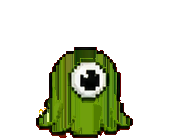
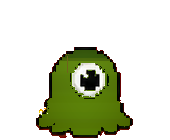
Remove slime sprite vertical banding

Changed region(s): [[0.2353, 0.3429, 0.7647, 0.9714], [0.5, 0.6286, 0.5588, 0.6571]]

diff --git a/g00dweird_chat-main/frontend/src/components/AnimSpriteAssets.test.js b/g00dweird_chat-main/frontend/src/components/AnimSpriteAssets.test.js
@@ -39,6 +39,7 @@ function decodePngAlpha(filePath) {
     const scanlineLength = width * bytesPerPixel;
     const inflated = zlib.inflateSync(Buffer.concat(idatChunks));
     const alpha = Array.from({ length: height }, () => new Uint8Array(width));
+    const rgba = Array.from({ length: height }, () => Array(width));
     let sourceOffset = 0;
     let previous = Buffer.alloc(scanlineLength);
 
@@ -61,12 +62,19 @@ function decodePngAlpha(filePath) {
         }
 
         for (let x = 0; x < width; x += 1) {
-            alpha[y][x] = row[x * bytesPerPixel + 3];
+            const pixelOffset = x * bytesPerPixel;
+            rgba[y][x] = [
+                row[pixelOffset],
+                row[pixelOffset + 1],
+                row[pixelOffset + 2],
+                row[pixelOffset + 3],
+            ];
+            alpha[y][x] = row[pixelOffset + 3];
         }
         previous = row;
     }
 
-    return { width, height, alpha };
+    return { width, height, alpha, rgba };
 }
 
 function enclosedTransparentPinholes({ width, height, alpha }, maxArea = 80) {
@@ -116,6 +124,59 @@ function animationStateName(frameName) {
     return frameName.replace(/_\d+\.png$/, "");
 }
 
+function opaqueBounds({ width, height, alpha }) {
+    let left = width;
+    let top = height;
+    let right = -1;
+    let bottom = -1;
+
+    for (let y = 0; y < height; y += 1) {
+        for (let x = 0; x < width; x += 1) {
+            if (alpha[y][x] === 0) continue;
+            left = Math.min(left, x);
+            top = Math.min(top, y);
+            right = Math.max(right, x);
+            bottom = Math.max(bottom, y);
+        }
+    }
+
+    return right >= left ? { left, top, right, bottom } : null;
+}
+
+function isSlimeBodyPixel([r, g, b, a]) {
+    if (a === 0) return false;
+    if (r > 190 && g > 190 && b > 185) return false;
+    return g > 40 && g >= r + 5 && g >= b + 8;
+}
+
+function brightness([r, g, b]) {
+    return (r + g + b) / 3;
+}
+
+function verticalSlimeBodyBands(decoded) {
+    const bounds = opaqueBounds(decoded);
+    if (!bounds) return [];
+    const bands = [];
+
+    for (let x = bounds.left + 8; x <= bounds.right - 8; x += 1) {
+        let darkContrastPixels = 0;
+
+        for (let y = bounds.top + 5; y <= bounds.bottom - 5; y += 1) {
+            const pixel = decoded.rgba[y][x];
+            const left = decoded.rgba[y][x - 1];
+            const right = decoded.rgba[y][x + 1];
+            if (!isSlimeBodyPixel(pixel) || !isSlimeBodyPixel(left) || !isSlimeBodyPixel(right)) continue;
+            if (brightness(pixel) + 28 < Math.min(brightness(left), brightness(right))) {
+                darkContrastPixels += 1;
+            }
+        }
+
+        if (darkContrastPixels >= 22) bands.push({ x, darkContrastPixels });
+    }
+
+    return bands;
+}
+
 describe("animated sprite asset alpha", () => {
     test("cat frames have no enclosed transparent pinholes", () => {
         const badFrames = fs.readdirSync(CAT_DIR)
@@ -162,5 +223,17 @@ describe("animated sprite asset alpha", () => {
         });
 
         expect(sparseFrames).toEqual([]);
+    });
+
+    test("slime body frames do not contain hard vertical stripe bands", () => {
+        const stripedFrames = fs.readdirSync(SLIME_DIR)
+            .filter((name) => name.endsWith(".png"))
+            .map((name) => {
+                const bands = verticalSlimeBodyBands(decodePngAlpha(path.join(SLIME_DIR, name)));
+                return bands.length ? { name, bands } : null;
+            })
+            .filter(Boolean);
+
+        expect(stripedFrames).toEqual([]);
     });
 });

diff --git a/g00dweird_chat-main/frontend/src/components/AnimSprite.jsx b/g00dweird_chat-main/frontend/src/components/AnimSprite.jsx
@@ -18,7 +18,7 @@ import React, { useEffect, useRef } from "react";
  * STATE_ALIASES maps requested-but-missing states onto sensible existing frames.
  */
 
-export const ANIM_VERSION = 26;
+export const ANIM_VERSION = 27;
 
 // Frame counts per creature/state — mirrors slicer v3 / unified output.
 export const FRAMES = {

diff --git a/g00dweird_chat-main/scripts/smooth_slime_body_texture.py b/g00dweird_chat-main/scripts/smooth_slime_body_texture.py
@@ -1,0 +1,136 @@
+#!/usr/bin/env python3
+"""Remove hard vertical column bands from slime sprite body pixels."""
+from __future__ import annotations
+
+from pathlib import Path
+from statistics import median
+
+from PIL import Image
+
+from fix_slime_sprite_transparency import fix_frame
+
+
+ROOT = Path(__file__).resolve().parents[1]
+SLIME_DIR = ROOT / "frontend" / "public" / "anim" / "slime"
+
+
+def is_slime_body_color(color: tuple[int, int, int, int]) -> bool:
+    r, g, b, a = color
+    if a == 0:
+        return False
+    if r > 190 and g > 190 and b > 185:
+        return False
+    return g > 28 and g >= r + 2 and g >= b + 6
+
+
+def is_near_transparency(alpha, x: int, y: int, radius: int = 2) -> bool:
+    width, height = alpha.size
+    for ny in range(max(0, y - radius), min(height, y + radius + 1)):
+        for nx in range(max(0, x - radius), min(width, x + radius + 1)):
+            if alpha.getpixel((nx, ny)) == 0:
+                return True
+    return False
+
+
+def body_bounds(body_points: set[tuple[int, int]]) -> tuple[int, int, int, int]:
+    xs = [point[0] for point in body_points]
+    ys = [point[1] for point in body_points]
+    return min(xs), min(ys), max(xs), max(ys)
+
+
+def body_row_medians(image: Image.Image, body_points: set[tuple[int, int]]) -> dict[int, tuple[float, float, float]]:
+    pixels = image.load()
+    rows: dict[int, list[tuple[int, int, int]]] = {}
+    for x, y in body_points:
+        r, g, b, _a = pixels[x, y]
+        rows.setdefault(y, []).append((r, g, b))
+
+    medians = {}
+    for y, colors in rows.items():
+        if len(colors) < 4:
+            continue
+        medians[y] = tuple(median(channel) for channel in zip(*colors))
+    return medians
+
+
+def smooth_row_target(
+    medians: dict[int, tuple[float, float, float]],
+    y: int,
+    radius: int = 4,
+) -> tuple[float, float, float] | None:
+    neighbors = [medians[ny] for ny in range(y - radius, y + radius + 1) if ny in medians]
+    if len(neighbors) < 2:
+        return None
+    return tuple(median(channel) for channel in zip(*neighbors))
+
+
+def clamp_channel(value: float) -> int:
+    return max(0, min(255, round(value)))
+
+
+def smooth_frame(path: Path) -> int:
+    image = Image.open(path).convert("RGBA")
+    alpha = image.getchannel("A")
+    pixels = image.load()
+    width, height = image.size
+    body_points = {
+        (x, y)
+        for y in range(height)
+        for x in range(width)
+        if is_slime_body_color(pixels[x, y]) and not is_near_transparency(alpha, x, y, radius=1)
+    }
+    if not body_points:
+        return 0
+
+    left, top, right, bottom = body_bounds(body_points)
+    center_x = (left + right) / 2
+    half_width = max(1, (right - left) / 2)
+    body_height = max(1, bottom - top)
+    changed = 0
+    row_medians = body_row_medians(image, body_points)
+
+    for x, y in body_points:
+        target = smooth_row_target(row_medians, y)
+        if not target:
+            continue
+        r, g, b, a = pixels[x, y]
+        y_norm = (y - top) / body_height
+        edge_norm = min(1, abs(x - center_x) / half_width)
+        edge_shadow = -18 * (edge_norm ** 1.65)
+        top_light = 9 * (1 - y_norm)
+        bottom_weight = -7 * y_norm
+        light = edge_shadow + top_light + bottom_weight
+        target_r = target[0] + light * 0.55
+        target_g = target[1] + light
+        target_b = target[2] + light * 0.35
+        pixels[x, y] = (
+            clamp_channel((target_r * 0.98) + (r * 0.02)),
+            clamp_channel((target_g * 0.98) + (g * 0.02)),
+            clamp_channel((target_b * 0.98) + (b * 0.02)),
+            a,
+        )
+        changed += 1
+
+    if changed:
+        image.save(path, optimize=True)
+        fix_frame(path)
+    return changed
+
+
+def smooth_all() -> int:
+    total = 0
+    for path in sorted(SLIME_DIR.glob("*.png")):
+        fixed = smooth_frame(path)
+        total += fixed
+        if fixed:
+            print(f"{path.name}: smoothed {fixed} body pixels")
+    print(f"smoothed {total} slime body pixels")
+    return total
+
+
+def main() -> None:
+    smooth_all()
+
+
+if __name__ == "__main__":
+    main()

diff --git a/g00dweird_chat-main/scripts/stabilize_slime_sprite_frames.py b/g00dweird_chat-main/scripts/stabilize_slime_sprite_frames.py
@@ -10,6 +10,7 @@ from pathlib import Path
 from PIL import Image
 
 from fix_slime_sprite_transparency import fix_frame
+from smooth_slime_body_texture import smooth_all
 
 
 ROOT = Path(__file__).resolve().parents[1]
@@ -40,6 +41,7 @@ def main() -> None:
         filled = fix_frame(SLIME_DIR / target_name)
         suffix = f"; filled {filled} interior pixels" if filled else ""
         print(f"repaired {target_name} with {donor_name}{suffix}")
+    smooth_all()
 
 
 if __name__ == "__main__":
